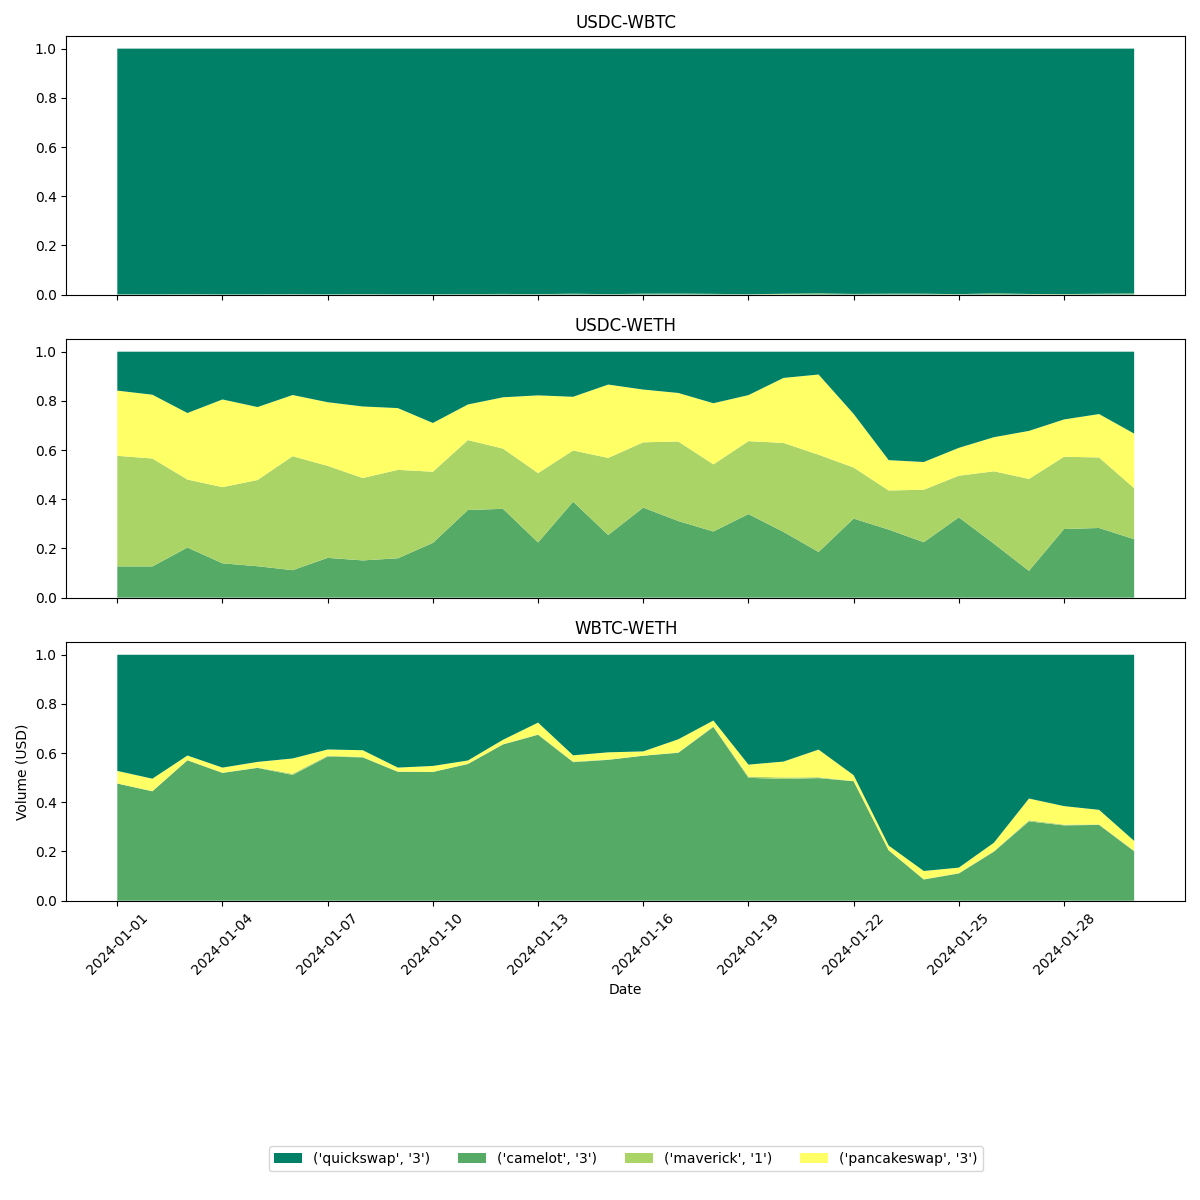
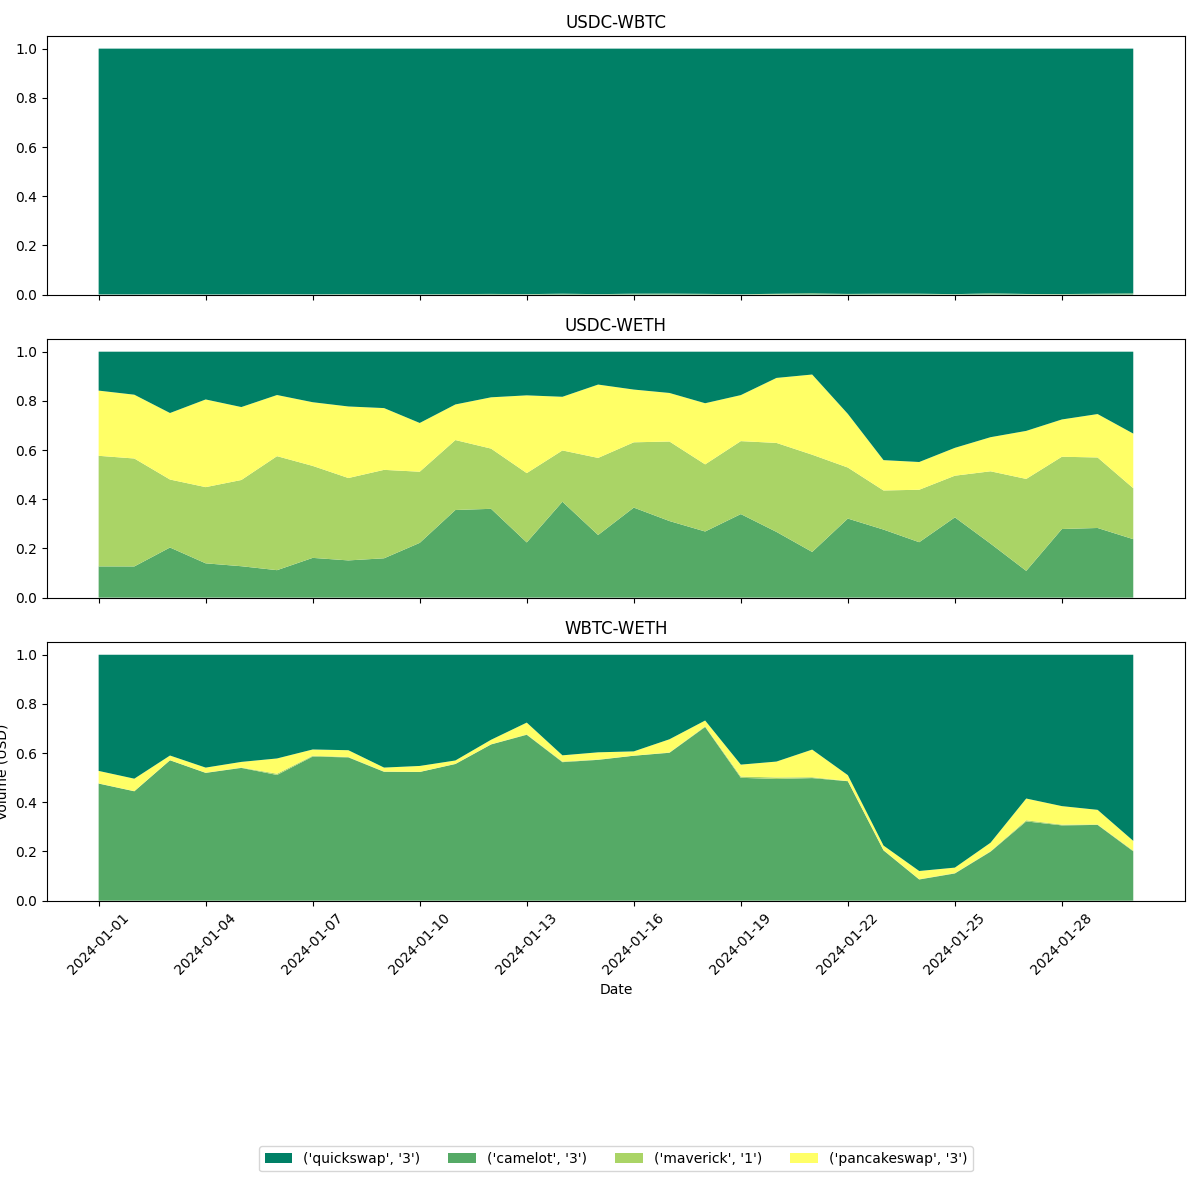
plot update

diff --git a/amm/plots.py b/amm/plots.py
@@ -33,7 +33,7 @@ def plot_market_share_token_pair(
 
     # Plotting
     fig = plot_longitudinal_features_of_entitites(venues_by_total_traffic[drop_k:top_k], volume_by_token_pair, num_token_pairs, normalize, {"xlabel": "Date", "ylabel": "Volume (USD)"})
-
+    fig.savefig(FIGURES_DIR / output_path)
 
 def plot_longitudinal_features_of_entitites(sorted_entities: list, feature_iterator, feature_cardinality: int, normalize: bool, pyplot_kwargs: dict):
     """
@@ -89,7 +89,7 @@ def plot_longitudinal_features_of_entitites(sorted_entities: list, feature_itera
     fig.tight_layout()
     fig.gca().set_xlabel(pyplot_kwargs.get("xlabel", "Date"))
     fig.gca().set_ylabel(pyplot_kwargs.get("ylabel", ""))
-    
+
     return fig
 
 if __name__ == "__main__":
